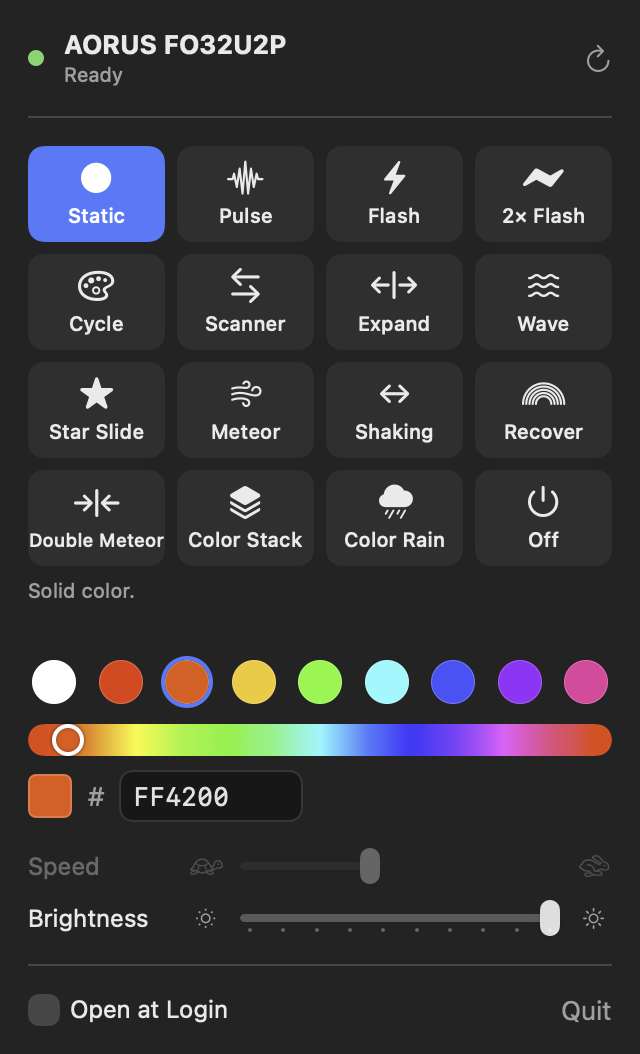
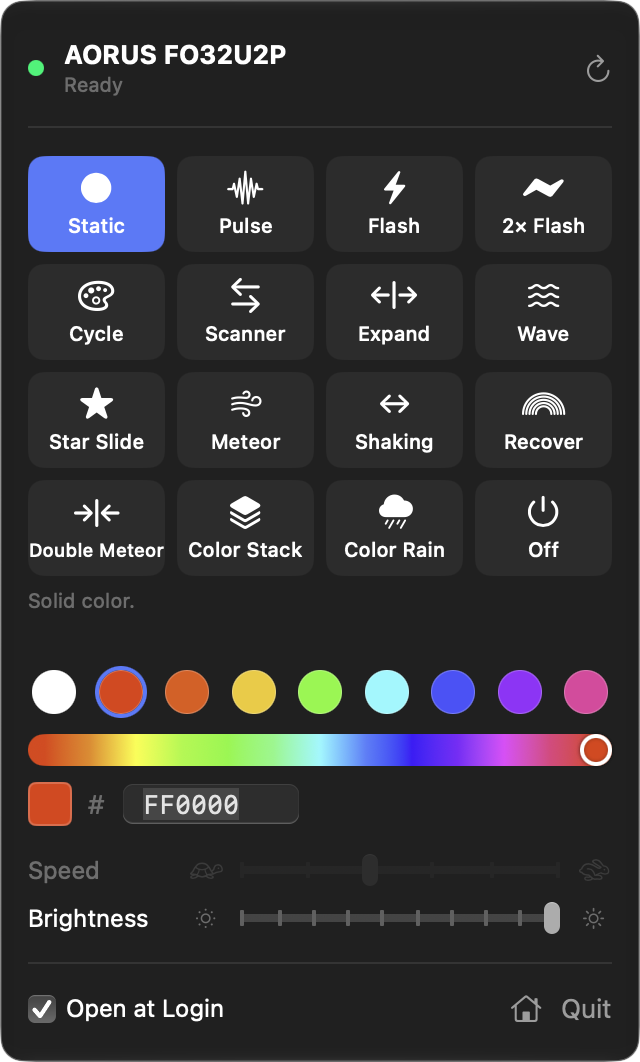
Show the lighting panel in a native menu (#2)
* Show the lighting panel in a native menu

The menu bar item now opens a real NSMenu with the panel hosted in a
menu item, so macOS draws the background, corners and animations the
same way as its own menu bar menus.

* Update panel screenshots for the native menu

* Fix focus, launch window and settings button in the menu

- Don't focus the hex field when the menu opens, so typing can't
  replace the color by accident.
- Keep the Settings window from opening at launch.
- Close the menu when the Home Assistant button opens Settings.

* Glowbar 1.1.1

---------

diff --git a/Sources/GlowbarApp/GlowbarApp.swift b/Sources/GlowbarApp/GlowbarApp.swift
@@ -1,19 +1,66 @@
+import AppKit
 import SwiftUI
 
 @main
 struct GlowbarApp: App {
-    @State private var model = AppModel()
+    @NSApplicationDelegateAdaptor private var delegate: AppDelegate
 
     var body: some Scene {
-        MenuBarExtra {
-            LightingPanel(model: model)
-        } label: {
-            Image(systemName: model.isConnected ? "light.strip.2.fill" : "light.strip.2")
-        }
-        .menuBarExtraStyle(.window)
-
+        // A hidden placeholder: with Settings as the only scene, SwiftUI opens it at launch.
+        // The real menu bar item is the NSStatusItem in StatusMenu.
+        MenuBarExtra("Glowbar", isInserted: .constant(false)) { EmptyView() }
         Settings {
-            HomeAssistantSettings(bridge: model.homeAssistant, monitorConnected: model.isConnected)
+            HomeAssistantSettings(bridge: delegate.model.homeAssistant, monitorConnected: delegate.model.isConnected)
         }
+    }
+}
+
+@MainActor
+final class AppDelegate: NSObject, NSApplicationDelegate {
+    let model = AppModel()
+    private var statusMenu: StatusMenu?
+
+    func applicationDidFinishLaunching(_ notification: Notification) {
+        statusMenu = StatusMenu(model: model)
+    }
+}
+
+/// The menu bar item. Its menu is a real NSMenu, so macOS draws the background, corners and
+/// animations exactly like its own menus; the panel is hosted inside a single menu item.
+@MainActor
+final class StatusMenu {
+    private let model: AppModel
+    private let item = NSStatusBar.system.statusItem(withLength: NSStatusItem.squareLength)
+
+    init(model: AppModel) {
+        self.model = model
+        let menu = NSMenu()
+        let panel = PanelHostingView(rootView: LightingPanel(model: model) { [weak menu] in menu?.cancelTracking() })
+        panel.frame.size = panel.fittingSize
+        let panelItem = NSMenuItem()
+        panelItem.view = panel
+        menu.addItem(panelItem)
+        item.menu = menu
+        updateIcon()
+    }
+
+    private func updateIcon() {
+        withObservationTracking {
+            let symbol = model.isConnected ? "light.strip.2.fill" : "light.strip.2"
+            item.button?.image = NSImage(systemSymbolName: symbol, accessibilityDescription: "Glowbar")
+        } onChange: { [weak self] in
+            Task { @MainActor in self?.updateIcon() }
+        }
+    }
+}
+
+/// The menu window focuses the hex field when it opens, so typing would replace the color.
+/// Make the panel itself the window's initial focus instead; the field still focuses when clicked.
+private final class PanelHostingView: NSHostingView<LightingPanel> {
+    override var acceptsFirstResponder: Bool { true }
+
+    override func viewDidMoveToWindow() {
+        super.viewDidMoveToWindow()
+        window?.initialFirstResponder = self
     }
 }

diff --git a/Sources/GlowbarApp/LightingPanel.swift b/Sources/GlowbarApp/LightingPanel.swift
@@ -6,6 +6,8 @@ import SwiftUI
 /// The whole app: a menu bar panel with every lighting control.
 struct LightingPanel: View {
     @Bindable var model: AppModel
+    /// Closes the menu the panel is shown in.
+    var closeMenu: () -> Void = {}
 
     var body: some View {
         let effect = model.settings.effect
@@ -36,7 +38,7 @@ struct LightingPanel: View {
                 .disabledLook(!effect.usesBrightness)
             }
             Divider()
-            PanelFooter()
+            PanelFooter(closeMenu: closeMenu)
         }
         .padding(14)
         .frame(width: 320)
@@ -318,6 +320,7 @@ private struct LevelSlider: View {
 // MARK: - Footer
 
 private struct PanelFooter: View {
+    let closeMenu: () -> Void
     @State private var launchAtLogin = SMAppService.mainApp.status == .enabled
     @Environment(\.openSettings) private var openSettings
 
@@ -335,6 +338,7 @@ private struct PanelFooter: View {
                 }
             Spacer()
             Button {
+                closeMenu()
                 // A menu bar app has to come forward itself, or the window opens behind others.
                 NSApp.activate(ignoringOtherApps: true)
                 openSettings()
